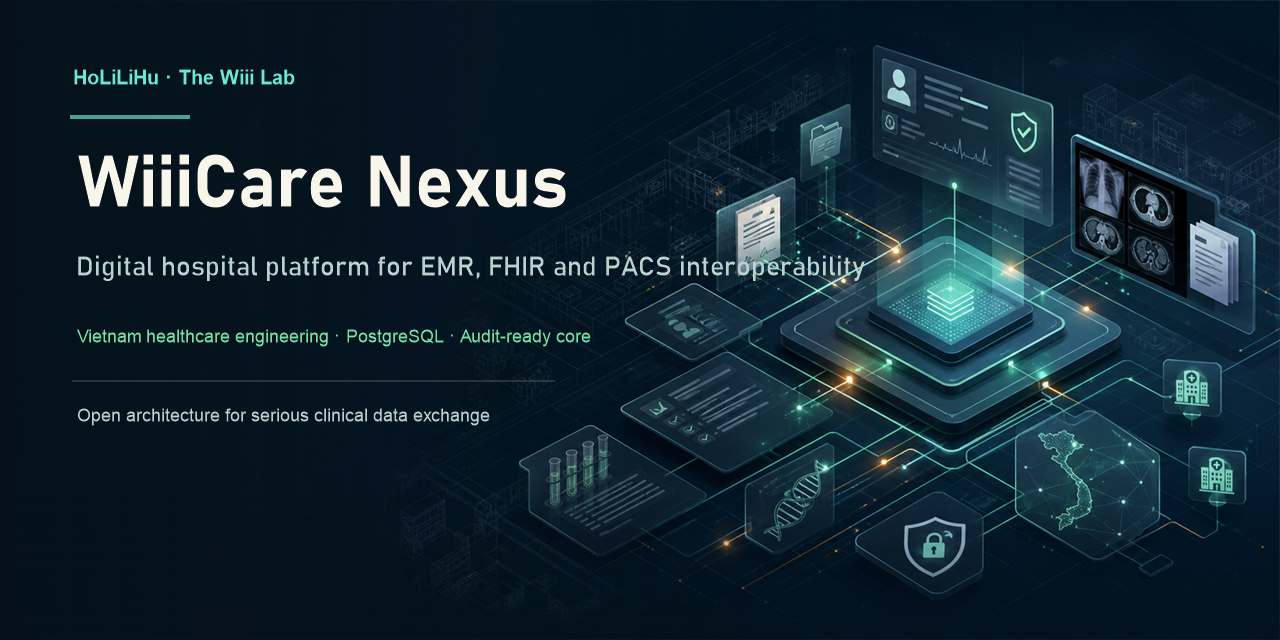
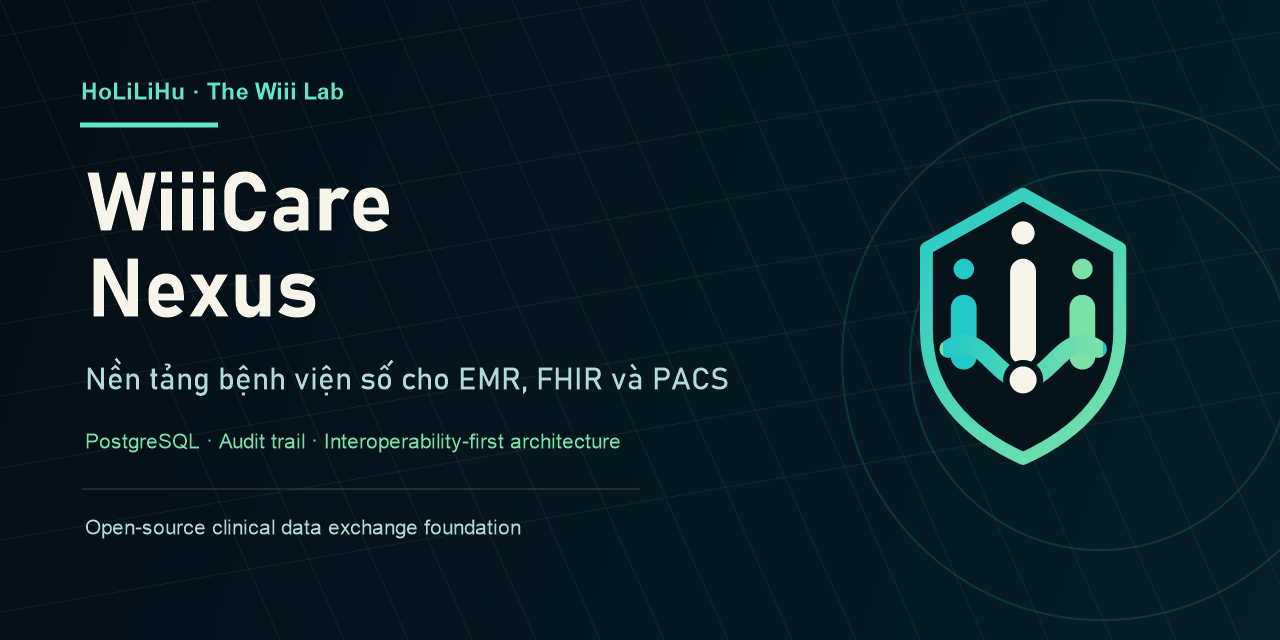
docs: add refined WiiiCare Nexus brand assets

diff --git a/docs/BRAND.md b/docs/BRAND.md
@@ -1,0 +1,39 @@
+# WiiiCare Nexus Brand
+
+## Tên dự án
+
+**WiiiCare Nexus** là tên chính thức của dự án. Cách gọi đầy đủ trong tài liệu:
+
+```text
+WiiiCare Nexus by HoLiLiHu · The Wiii Lab
+```
+
+Ý nghĩa:
+
+- `WiiiCare`: giữ dấu ấn The Wiii Lab và định vị vào lĩnh vực chăm sóc sức khỏe.
+- `Nexus`: nhấn mạnh vai trò kết nối hồ sơ bệnh án điện tử, FHIR, PACS/DICOM và trao đổi dữ liệu giữa hệ thống.
+
+## Nguyên tắc thị giác
+
+- Ưu tiên nhận diện tối giản, dễ đọc ở kích thước nhỏ.
+- Không dùng biểu tượng chữ thập y tế làm motif chính để tránh cảm giác chung chung.
+- Logo phải dùng được ở README, slide, favicon, tài liệu kỹ thuật và giao diện demo.
+- Hạn chế hiệu ứng 3D, glow, phối cảnh phức tạp và các panel giả lập chứa chữ không đọc được.
+- Ảnh social preview nên là bố cục thương hiệu, không phải tranh minh họa y tế rối.
+
+## Asset
+
+- `docs/assets/brand/wiiicare-nexus-mark.svg`: logo mark vector.
+- `docs/assets/brand/wiiicare-nexus-logo.svg`: logo lockup ngang.
+- `docs/assets/brand/wiiicare-nexus-logo-concept-imagegen.png`: bản concept tạo bằng imagegen để lưu vết hướng thiết kế.
+- `docs/assets/github-social-preview.png`: social preview 1280 x 640 cho GitHub.
+
+## Màu nền tảng
+
+```text
+Ink Navy       #06131B
+Deep Teal      #23C9C7
+Clinical Mint  #7BE2A7
+Soft Data      #9CDDD4
+Warm White     #F7F4E9
+```

diff --git a/README.md b/README.md
@@ -6,6 +6,8 @@
 
 Mục tiêu trước mắt là tạo một nền tảng monorepo đủ rõ ràng để trình bày, thử nghiệm và mở rộng; chưa giả định đây là phần mềm đạt điều kiện triển khai sản xuất tại bệnh viện.
 
+Brand assets: [docs/BRAND.md](docs/BRAND.md).
+
 ## Định hướng kiến trúc
 
 - Bắt đầu bằng **modular monolith theo DDD** để giữ tốc độ phát triển, giảm chi phí vận hành và vẫn có ranh giới nghiệp vụ rõ.